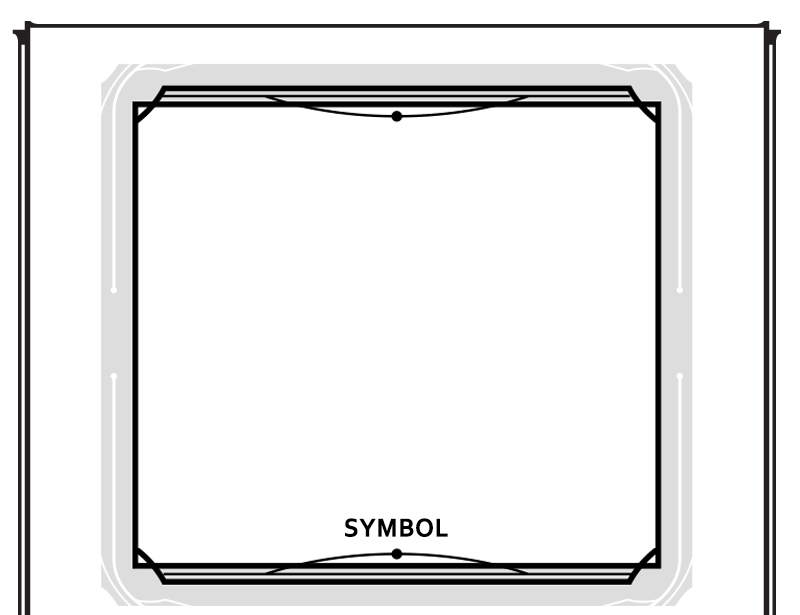
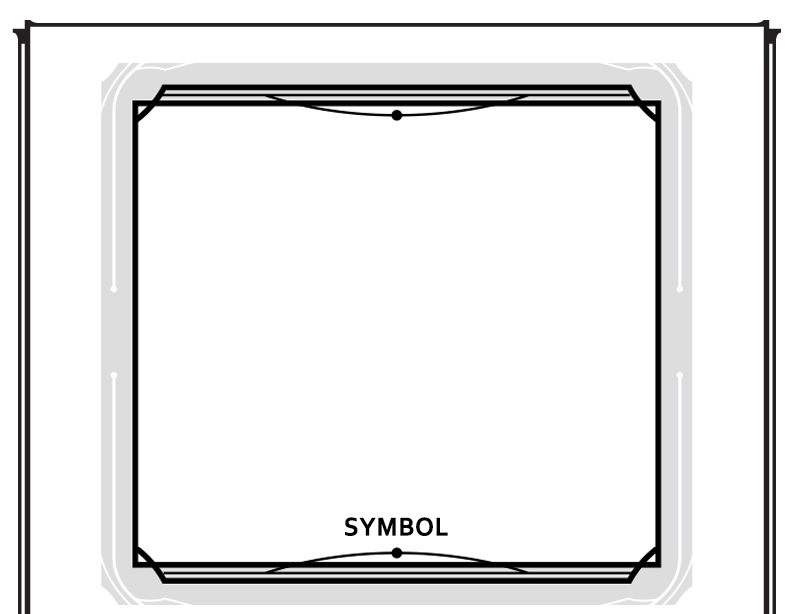
Preliminary Profile and Info views done.

Changed region(s): [[0.1562, 0.1238, 0.8438, 0.2166], [0.0312, 0.0309, 0.9688, 0.0619]]

diff --git a/CharacterGenerator/src/app/components/info/info.component.css b/CharacterGenerator/src/app/components/info/info.component.css
@@ -50,48 +50,48 @@ li {
 
 #Front{width:100%;text-align: center;}
 #Cover{display: inline-block;width:1208px;}
+#Header{background-image: url(../../../assets/images/WideInfoHeader.png);
+    background-size:1200px 225px;width:1200px; height:225px;}
+
 #Full{display: inline-block;width:1208px;}
 #Left{display: inline-block;width:402px;}
-#Right{display: inline-block;width:806px;}
-#Top{display: inline-flex;width:804px;height:302px;}
-#Middle{display: inline-block;width:804px;}
-#Header{background-image: url(../../../assets/images/WideFrontHeader.png);
-    background-size:1200px 225px;width:1200px; height:225px;}
-#Abilities{background-image: url(../../../assets/images/Abilities.png);
-    background-size:400px 1000px;width:400px; height:1000px;}
-#Health{background-image: url(../../../assets/images/HealthTracker.png);
-    background-size:400px 300px;width:400px; height:300px;}
-#Other{background-image: url(../../../assets/images/Other.png);
-    background-size:400px 300px;width:400px; height:300px;}
-
-#Attacks{width:800px;}
-#AttacksTop{background-image: url(../../../assets/images/DoubleColumnAttacksHeader.png);
-    background-size:800px 35px;width:800px; height:35px;}
-#AttacksBody{background-image: url(../../../assets/images/DoubleColumnAttacksBody.png);
-    background-size:800px 60px;width:800px; height:60px;}
-#AttacksFoot{background-image: url(../../../assets/images/DoubleColumnAttacksFooter.png);
-    background-size:800px 60px;width:800px; height:60px;}
-
-#Features{width:800px;}
-#FeaturesTop{background-image: url(../../../assets/images/DoubleColumnHeader.png);
-    background-size:800px 35px;width:800px; height:35px;}
-#FeaturesBody{background-image: url(../../../assets/images/DoubleColumnBody.png);
-    background-size:800px 30px;width:800px; height:30px;}
-#FeaturesFoot{background-image: url(../../../assets/images/DoubleColumnFeaturesFooter.png);
-    background-size:800px 60px;width:800px; height:60px;}
-
-#Languages{width:400px;}
-#LanguagesTop{background-image: url(../../../assets/images/SingleColumnTop.png);
-    background-size:400px 15px;width:400px; height:15px;}
-#LanguagesBody{background-image: url(../../../assets/images/SingleColumnRow.png);
+#Info{width:400px;}
+#InfoTop{background-image: url(../../../assets/images/InfoTop.png);
+    background-size:400px 50px;width:400px; height:50px;}
+#InfoBody{background-image: url(../../../assets/images/InfoBody.png);
     background-size:400px 30px;width:400px; height:30px;}
-#LanguagesFoot{background-image: url(../../../assets/images/Languages.png);
-    background-size:400px 30px;width:400px; height:30px;}
+#InfoPerson{background-image: url(../../../assets/images/InfoPersonality.png);
+    background-size:400px 110px;width:400px; height:110px;}
+#InfoIdeals{background-image: url(../../../assets/images/InfoIdeals.png);
+    background-size:400px 113px;width:400px; height:113px;}
+#InfoBonds{background-image: url(../../../assets/images/InfoBonds.png);
+    background-size:400px 109px;width:400px; height:109px;}
+#InfoFlaws{background-image: url(../../../assets/images/InfoFlaws.png);
+    background-size:400px 55px;width:400px; height:55px;}
 
-#Equipment{width:800px;}
-#EquipmentTop{background-image: url(../../../assets/images/DoubleColumnHeader2.png);
-    background-size:800px 35px;width:800px; height:35px;}
-#EquipmentBody{background-image: url(../../../assets/images/DoubleColumnBody2.png);
+#Backstory{display: inline-block;width:402px;}    
+#Symbol{background-image: url(../../../assets/images/InfoSymbol.png);
+    background-size:400px 307px;width:400px; height:307px;}
+#BackstoryBody{background-image: url(../../../assets/images/InfoBackstoryBody.png);
+    background-size:400px 30px;width:400px; height:30px;}
+#BackstoryFoot{background-image: url(../../../assets/images/InfoBackstory.png);
+    background-size:400px 33px;width:400px; height:33px;}
+
+#Right{display: inline-block;width:804px;}
+#Allies{width:800px;}
+#AlliesTop{background-image: url(../../../assets/images/InfoPictureDoubleHeader.png);
     background-size:800px 30px;width:800px; height:30px;}
-#EquipmentFoot{background-image: url(../../../assets/images/DoubleColumnEquipmentFooter.png);
-    background-size:800px 315px;width:800px; height:315px;}
+#AlliesBody{background-image: url(../../../assets/images/InfoPictureDoubleBody.png);
+    background-size:800px 30px;width:800px; height:30px;}
+#AlliesFoot{background-image: url(../../../assets/images/InfoPictureDoubleFooter.png);
+    background-size:800px 65px;width:800px; height:65px;}
+
+
+
+#Notes{width:800px;}
+#NotesTop{background-image: url(../../../assets/images/NotesDoubleHeader.png);
+    background-size:800px 35px;width:800px; height:35px;}
+#NotesBody{background-image: url(../../../assets/images/NotesDoubleBody.png);
+    background-size:800px 30px;width:800px; height:30px;}
+#NotesFoot{background-image: url(../../../assets/images/NotesDoubleFooter.png);
+    background-size:800px 75px;width:800px; height:75px;}

diff --git a/CharacterGenerator/src/app/components/info/info.component.html b/CharacterGenerator/src/app/components/info/info.component.html
@@ -17,42 +17,54 @@
 </div>
 <div id="Front">
     <div id="Cover">
-        <div class="item" id="Header">
+        <div id="Header">
 
         </div>
     </div>
     <div id="Full">
         <div id="Left">
-                <div class="item" id="Info">
-                        <div class="item" id="InfoTop"></div>
-                        <div class="item" id="InfoBody">
-        
-                        </div>
-                        <div class="item" id="InfoFoot"></div>
-                    </div>
-            <div class="item" id="Backstory">
-                <div class="item" id="Symbol"></div>
-                <div class="item" id="BackstoryBody">
+            <div id="Info">
+                <div id="InfoTop"></div>
+                <div id="InfoBody">
 
                 </div>
-                <div class="item" id="BackstoryFoot"></div>
+                <div id="InfoPerson"></div>
+                <div id="InfoBody">
+
+                </div>
+                <div id="InfoIdeals"></div>
+                <div id="InfoBody">
+                
+                </div>
+                <div id="InfoBonds"></div>
+                <div id="InfoBody">
+                
+                </div>
+                <div id="InfoFlaws"></div>
+            </div>
+            <div id="Backstory">
+                <div  id="Symbol"></div>
+                <div  id="BackstoryBody">
+
+                </div>
+                <div id="BackstoryFoot"></div>
             </div>
         </div>
         <div id="Right">
-                <div class="item" id="Allies">
-                    <div class="item" id="AlliesTop"></div>
-                    <div class="item" id="AlliesBody">
+            <div  id="Allies">
+                <div  id="AlliesTop"></div>
+                <div  id="AlliesBody">
 
-                    </div>
-                    <div class="item" id="AlliessFoot"></div>
                 </div>
-                <div class="item" id="Notes">
-                    <div class="item" id="NotesTop"></div>
-                    <div class="item" id="NotesBody">
+                <div id="AlliesFoot"></div>
+            </div>
+            <div id="Notes">
+                <div id="NotesTop"></div>
+                <div id="NotesBody">
 
-                    </div>
-                    <div class="item" id="NotesFoot"></div>
                 </div>
+                <div id="NotesFoot"></div>
+            </div>
         </div>
     </div>
 </div>
